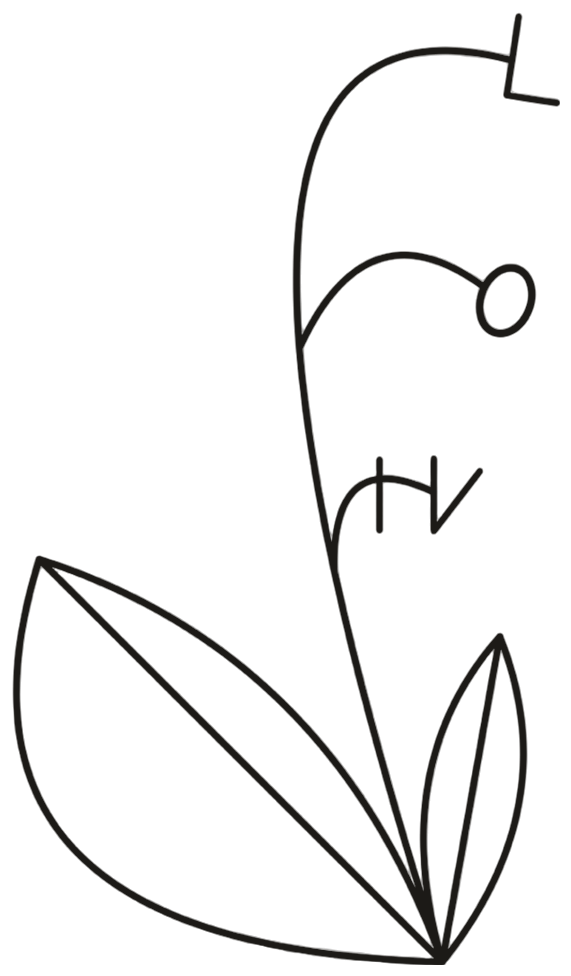
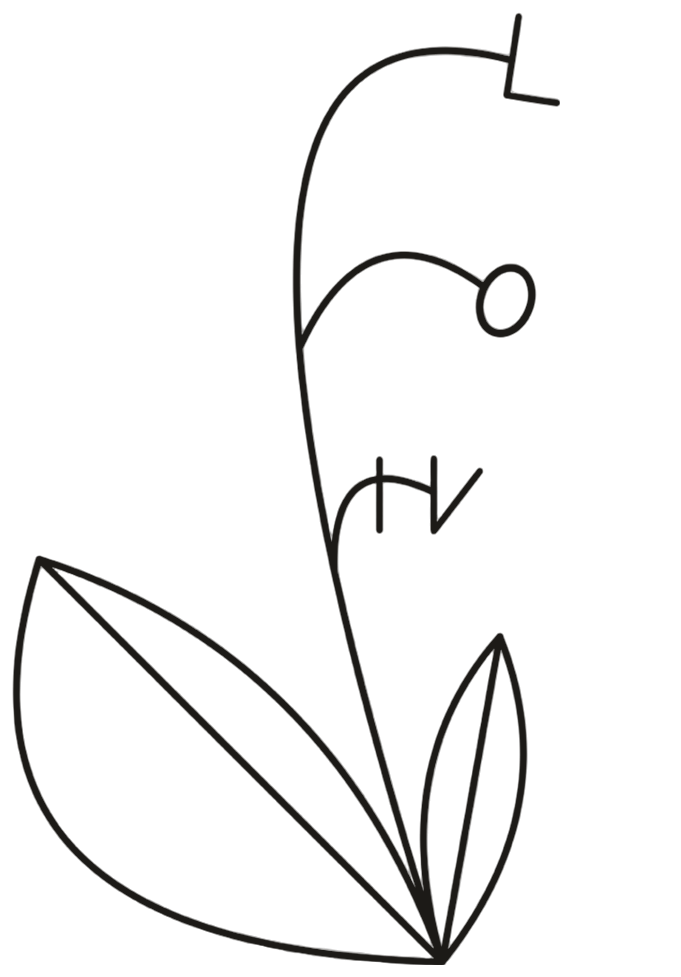
Add files via upload

diff --git a/index.html b/index.html
@@ -38,9 +38,11 @@ html, body { height: 100%; overflow: hidden; }
 /* 은방울꽃 심볼 (투명 PNG) */
 .hero-symbol {
   display: block;
-  height: clamp(120px, 19vh, 190px);
+  height: clamp(180px, 31vh, 290px);
   width: auto;
-  margin-bottom: clamp(22px, 3.6vh, 36px);
+  margin-bottom: clamp(18px, 3vh, 30px);
+  /* 가운데 정렬 미세 조정: 음수 = 왼쪽, 양수 = 오른쪽 (예: -6px) */
+  translate: var(--symbol-shift, 0px) 0;
   user-select: none;
   -webkit-user-drag: none;
 }
@@ -48,7 +50,7 @@ html, body { height: 100%; overflow: hidden; }
 .hero-mark {
   font-family: var(--serif);
   font-weight: 500;
-  font-size: clamp(46px, 6.4vw, 96px);
+  font-size: clamp(34px, 4vw, 58px);
   line-height: 1;
   letter-spacing: 0.2em;
   padding-left: 0.2em;           /* 자간 우측 여백 보정 → 시각적 중앙 정렬 */
@@ -60,8 +62,8 @@ html, body { height: 100%; overflow: hidden; }
 .hero-rule {
   display: block;
   width: 1px;
-  height: clamp(32px, 5vh, 52px);
-  margin: clamp(28px, 4.5vh, 44px) 0 clamp(22px, 3vh, 28px);
+  height: clamp(26px, 4vh, 40px);
+  margin: clamp(22px, 3.6vh, 34px) 0 clamp(18px, 2.6vh, 24px);
   background: var(--ink);
   transform-origin: top;
 }
@@ -122,8 +124,8 @@ html, body { height: 100%; overflow: hidden; }
 .is-ready .hero-foot { opacity: 1; transition-delay: 2.0s; }
 
 @media (max-width: 640px) {
-  .hero-mark { font-size: 42px; }
-  .hero-symbol { height: 128px; margin-bottom: 22px; }
+  .hero-mark { font-size: 32px; }
+  .hero-symbol { height: 200px; margin-bottom: 18px; }
   .hero-foot { flex-direction: column; align-items: flex-start; gap: 2px; }
 }
 </style>
